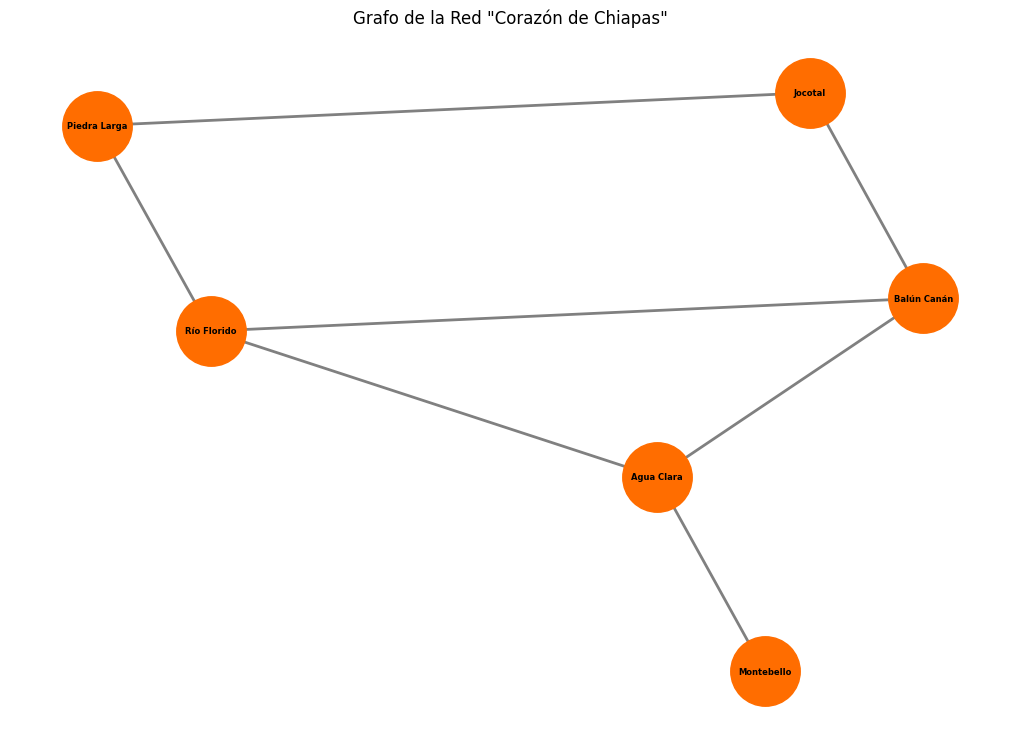
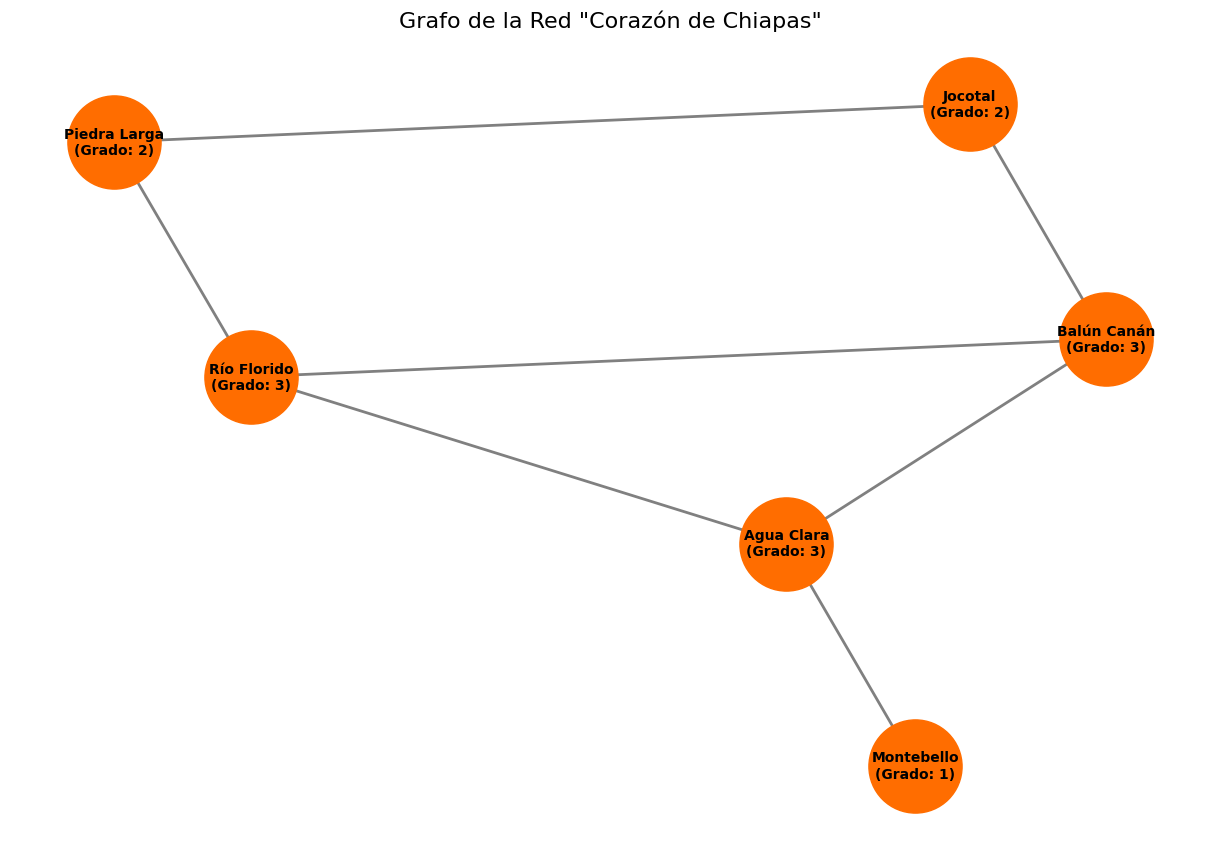
fix graph

diff --git a/graph_theory/pj_chiapas/graph_corazon_de_chiapas.py b/graph_theory/pj_chiapas/graph_corazon_de_chiapas.py
@@ -6,7 +6,7 @@ G = nx.Graph()
 
 # Defino los nodos (Vértices)
 # Uso abreviaturas para claridad en el gráfico
-nodes = {
+nodes_simple = {
     'BC': 'Balún Canán',
     'J': 'Jocotal',
     'PL': 'Piedra Larga',
@@ -14,7 +14,7 @@ nodes = {
     'AC': 'Agua Clara',
     'M': 'Montebello'
 }
-G.add_nodes_from(nodes.keys())
+G.add_nodes_from(nodes_simple.keys())
 
 # Defino las aristas (E) - Conexiones de doble sentido
 edges = [
@@ -28,23 +28,31 @@ edges = [
 ]
 G.add_edges_from(edges)
 
+# Calculo los grados
+degrees = dict(G.degree())
+
+# Etiquetas personalizadas
+custom_labels = {}
+for node, name in nodes_simple.items():
+    custom_labels[node] = f"{name}\n(Grado: {degrees[node]})"
+
 # Defino un layout
 pos = nx.kamada_kawai_layout(G)
 
 # Dibujo el grafo
-plt.figure(figsize=(10, 7))
+plt.figure(figsize=(12, 8))
 nx.draw(
     G,
     pos,
-    labels=nodes,  # Uso los nombres completos como etiquetas
+    labels=custom_labels,  
     with_labels=True,
     node_color='#ff6d00', 
-    node_size=2500,
-    font_size=6,
+    node_size=4500,
+    font_size=10,
     font_weight='bold',
     font_color='black',
     edge_color='gray',
     width=2
 )
-plt.title('Grafo de la Red "Corazón de Chiapas"')
+plt.title('Grafo de la Red "Corazón de Chiapas"', fontsize=16)
 plt.savefig("grafo_corazon_chiapas.png", bbox_inches='tight')
